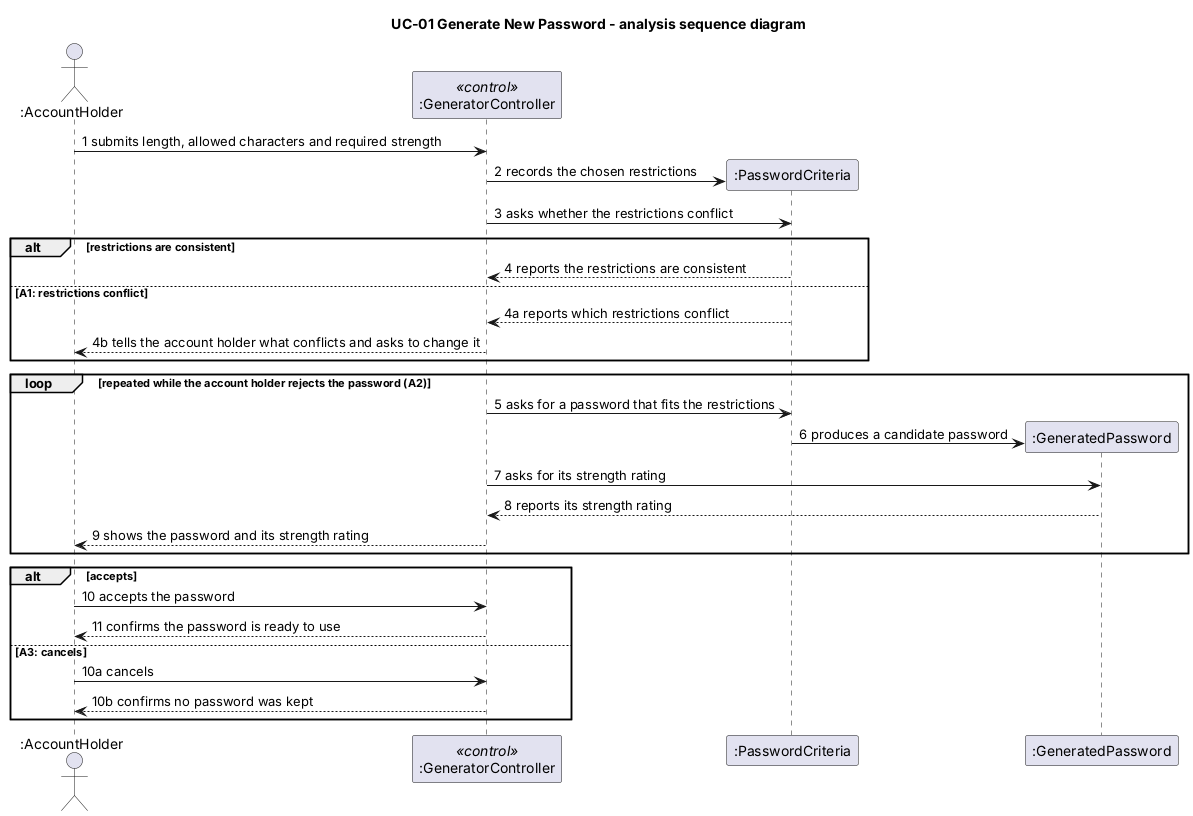
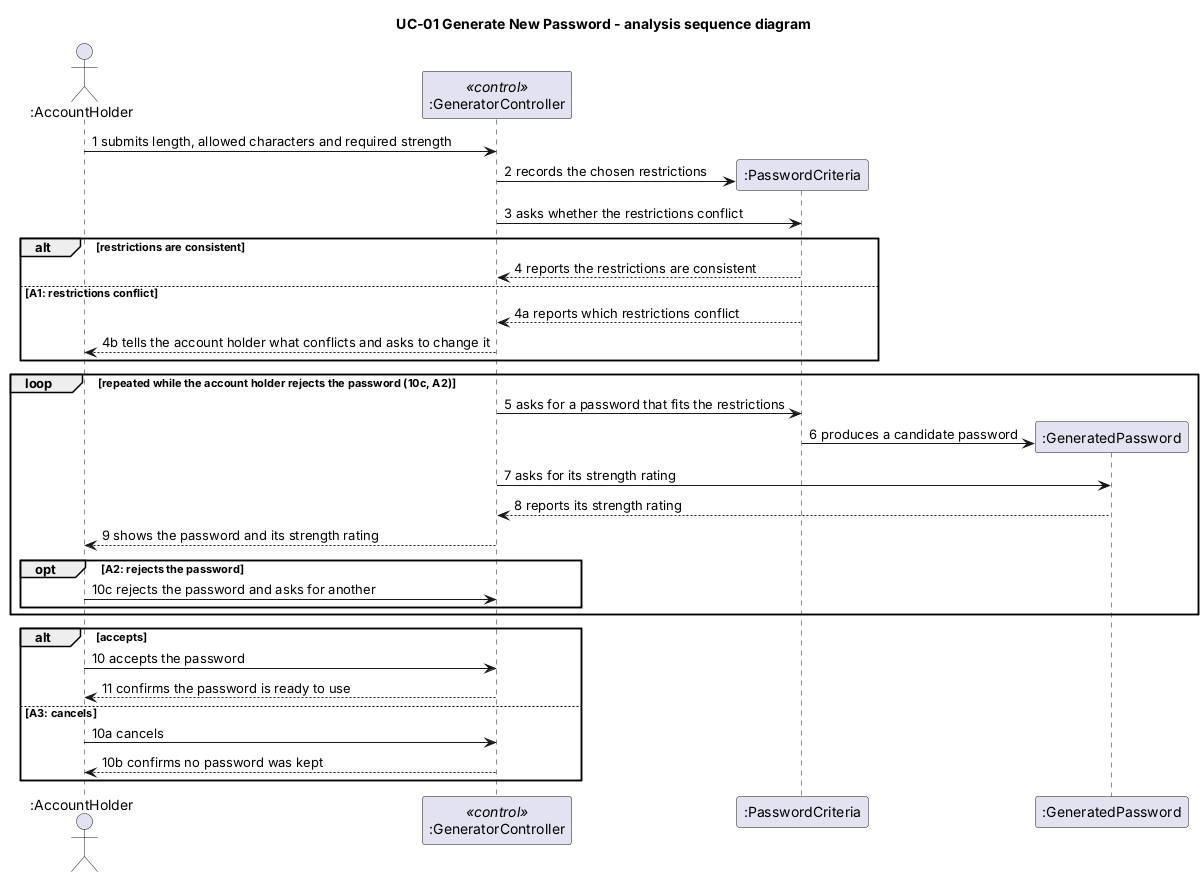
Add rejection step 10c to UC-01

diff --git a/Derek_Chai_5.2.md b/Derek_Chai_5.2.md
@@ -24,9 +24,10 @@ Author: Derek Chai (Derek-Chai)
 | 10 | AccountHolder | Accepts the password | value | GeneratorController |
 | 10a | AccountHolder | Cancels (A3) | | GeneratorController |
 | 10b | GeneratorController | Confirms no password was kept | | AccountHolder |
+| 10c | AccountHolder | Rejects the password and asks for another (A2) | value | GeneratorController |
 | 11 | GeneratorController | Confirms the password is ready to use | value | AccountHolder |
 
-GeneratorController is an interaction object that coordinates password generation and is in control of this interaction. Messages 5 to 9 repeat each time the account holder rejects the offered password (A2).
+GeneratorController is an interaction object that coordinates password generation and is in control of this interaction. When the account holder rejects the offered password (10c, A2), messages 5 to 9 repeat until the account holder accepts (10) or cancels (10a).
 
 **(c) Analysis sequence diagram.** See `diagrams/uc01-sequence.png` (source: `diagrams/uc01-sequence.puml`).
 
